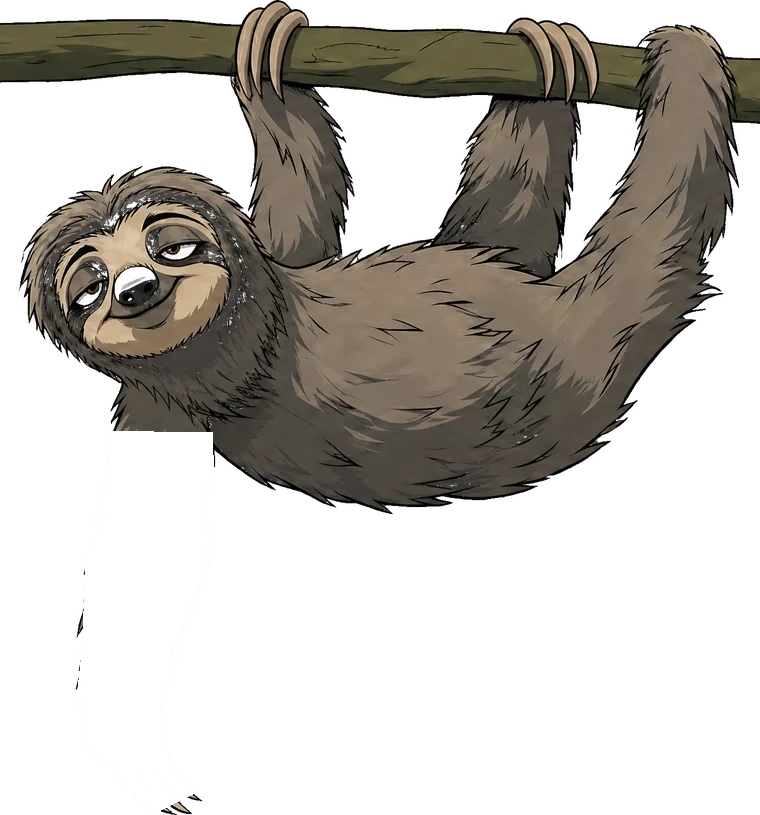
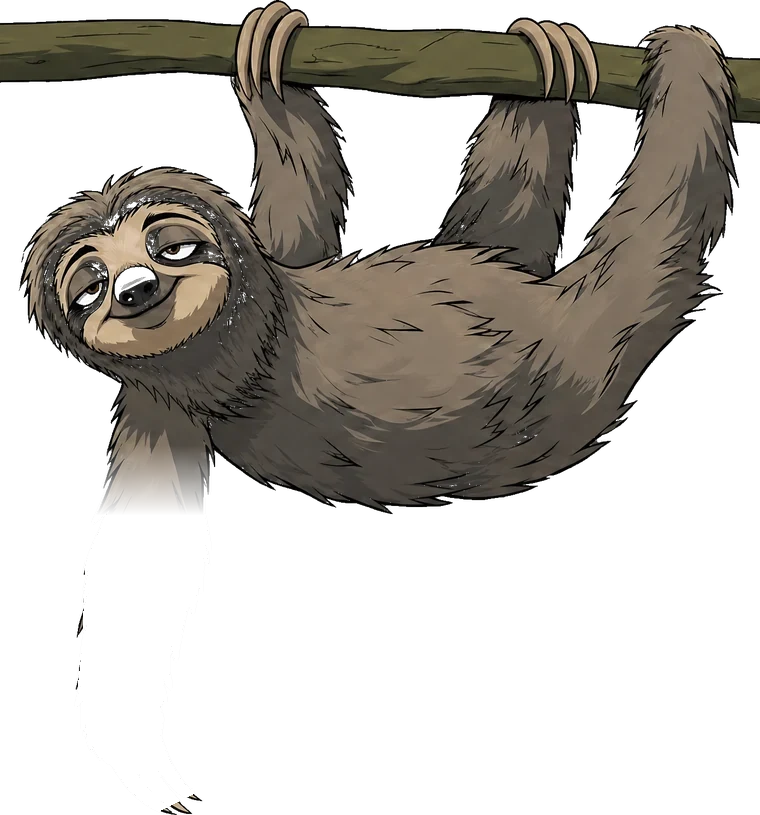
Sloth: fill shoulder gap with a fur patch behind the swinging arm; slow swing 20%
- Bake a faded copy of the arm's shoulder fur onto sloth-body.webp so the joint
  shows fur (not a hole) when the arm swings either way.
- Slow the arm swing 1.5s -> 1.8s.

Changed region(s): [[0.1211, 0.5215, 0.3026, 0.6442]]

diff --git a/src/screens/TrapHouse.jsx b/src/screens/TrapHouse.jsx
@@ -811,7 +811,7 @@ function GrowRoom({ planted, bank, onPlace, budCounts = {}, budResync = 0, onBud
               <img src="/sloth-arm.webp" alt="" aria-hidden style={{
                 position: 'absolute', left: 0, top: 0, width: '100%',
                 transformOrigin: SLOTH_PIVOT,
-                animation: swinging ? `slothSlice 1.5s ease-in-out ${SLOTH_ARM_DELAYS[i]} infinite` : 'none',
+                animation: swinging ? `slothSlice 1.8s ease-in-out ${SLOTH_ARM_DELAYS[i]} infinite` : 'none',
               }} />
             </div>
           )